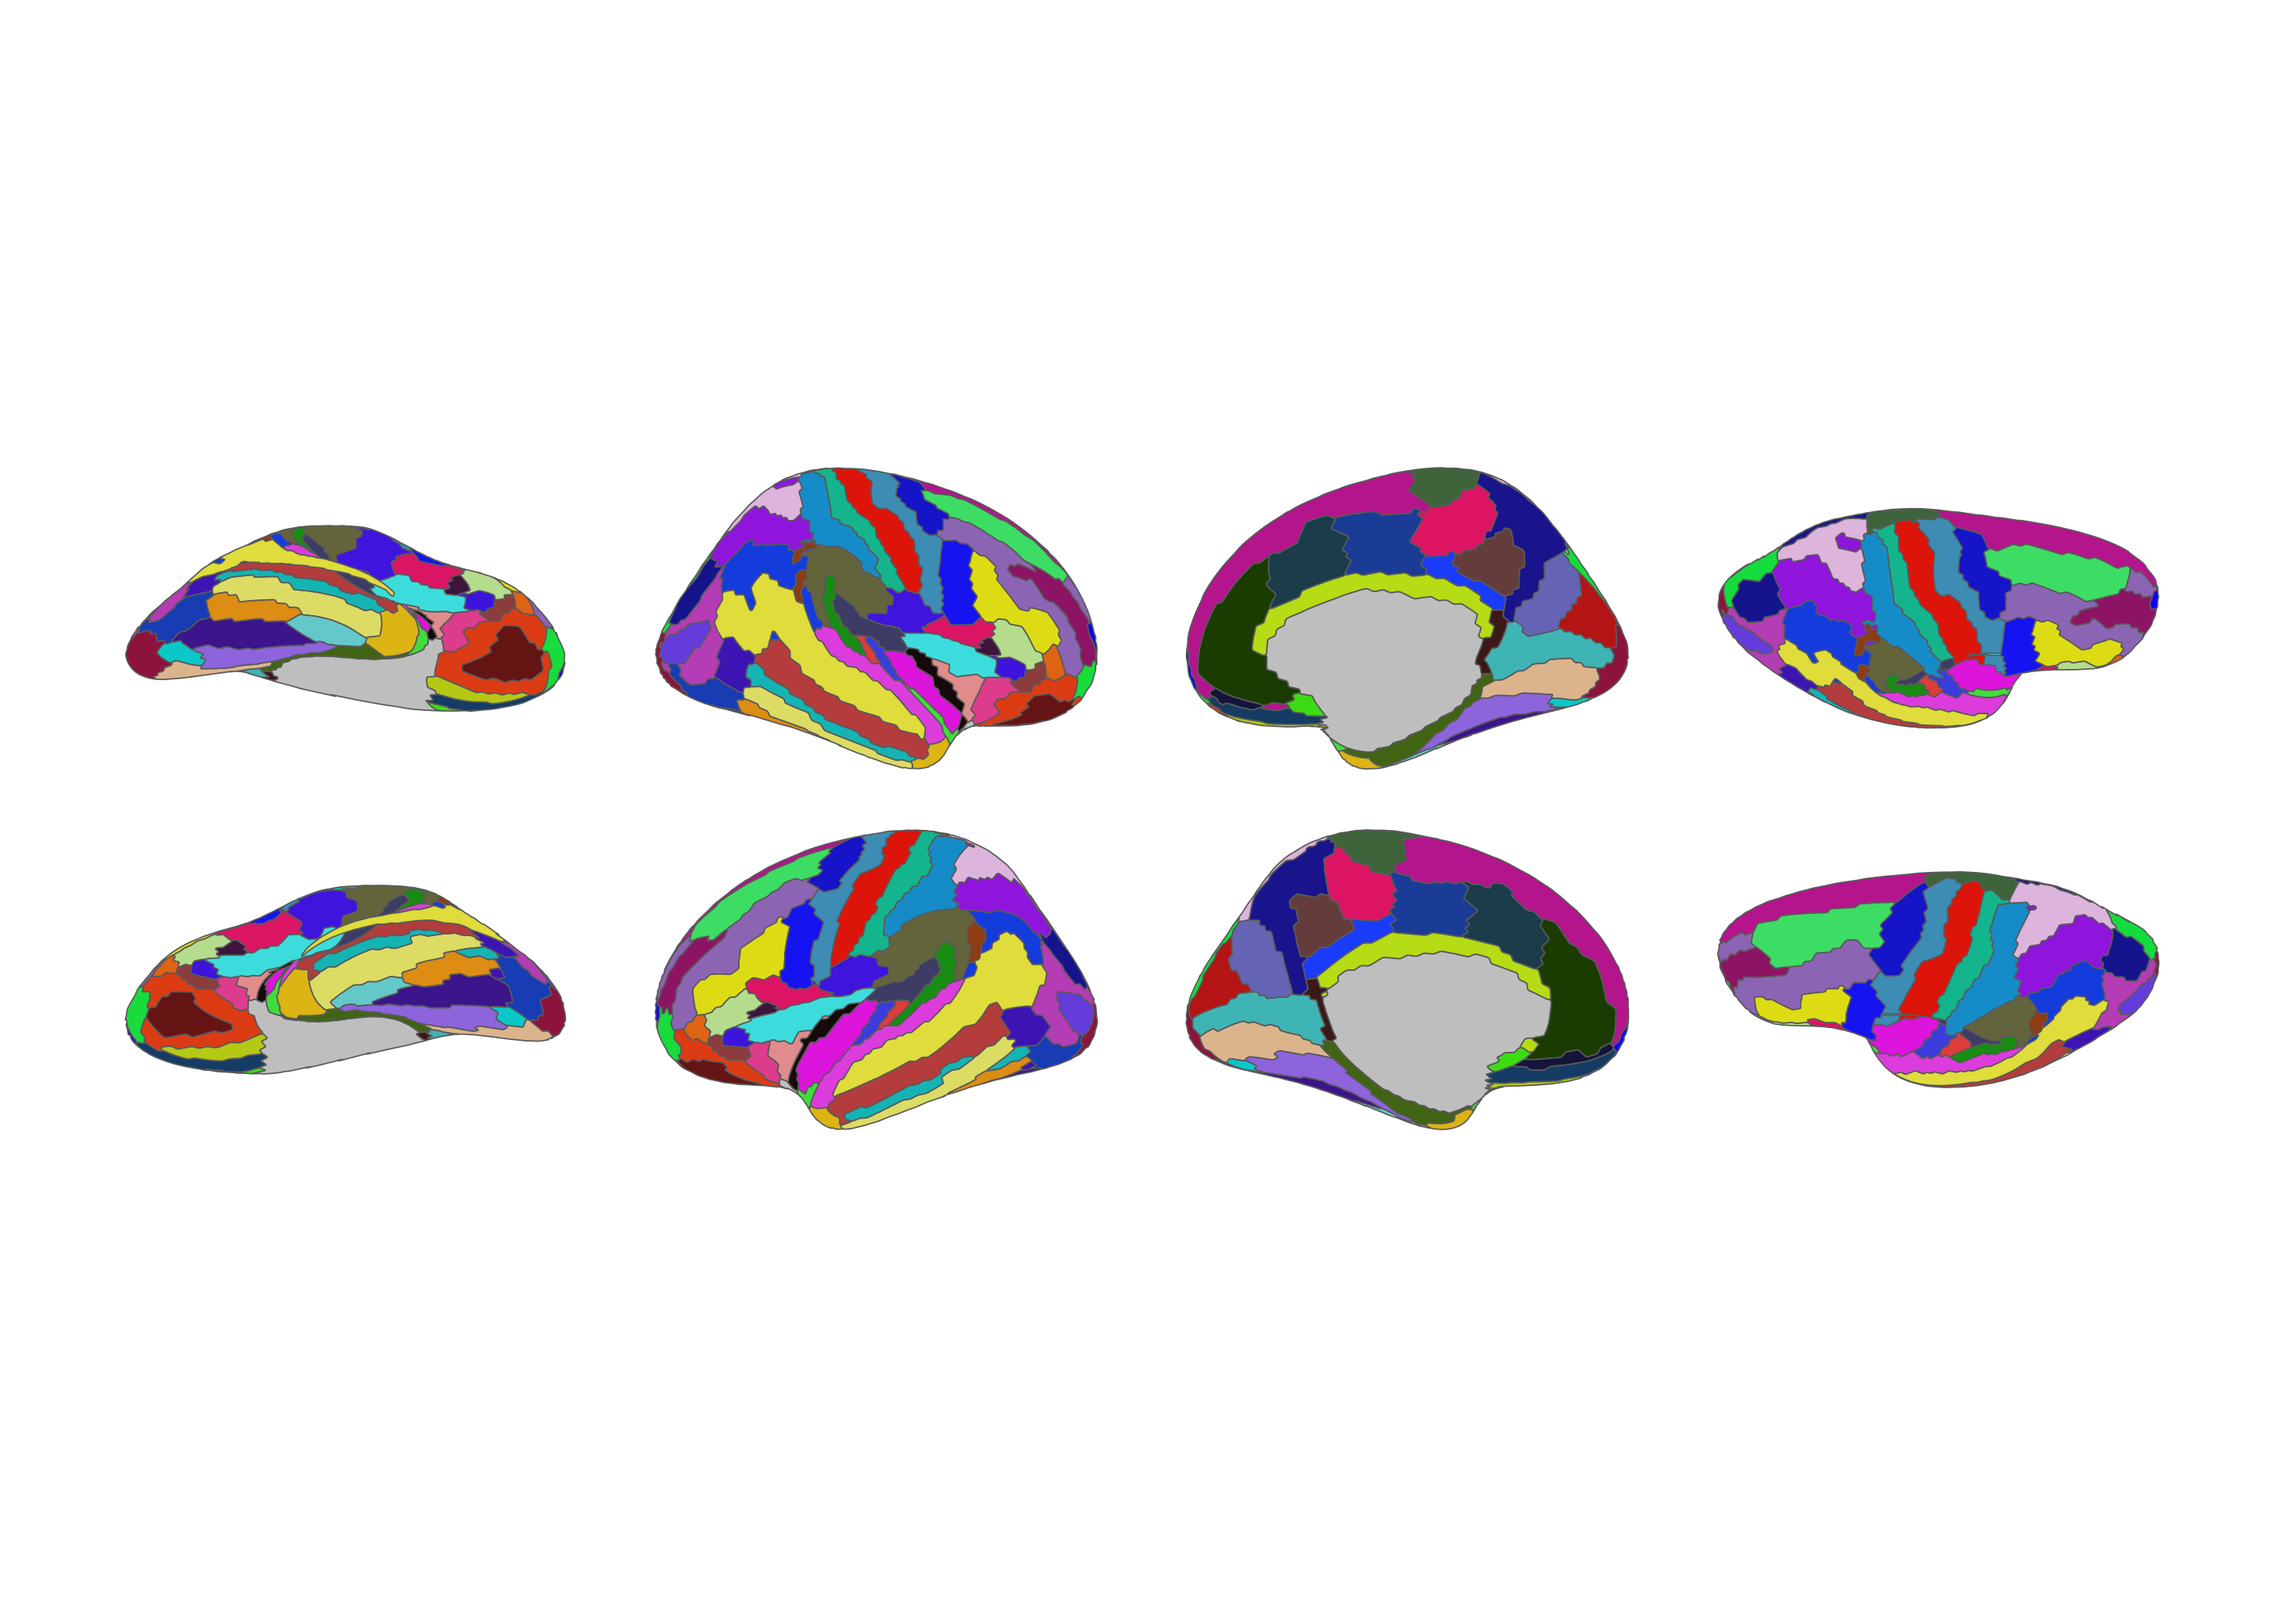
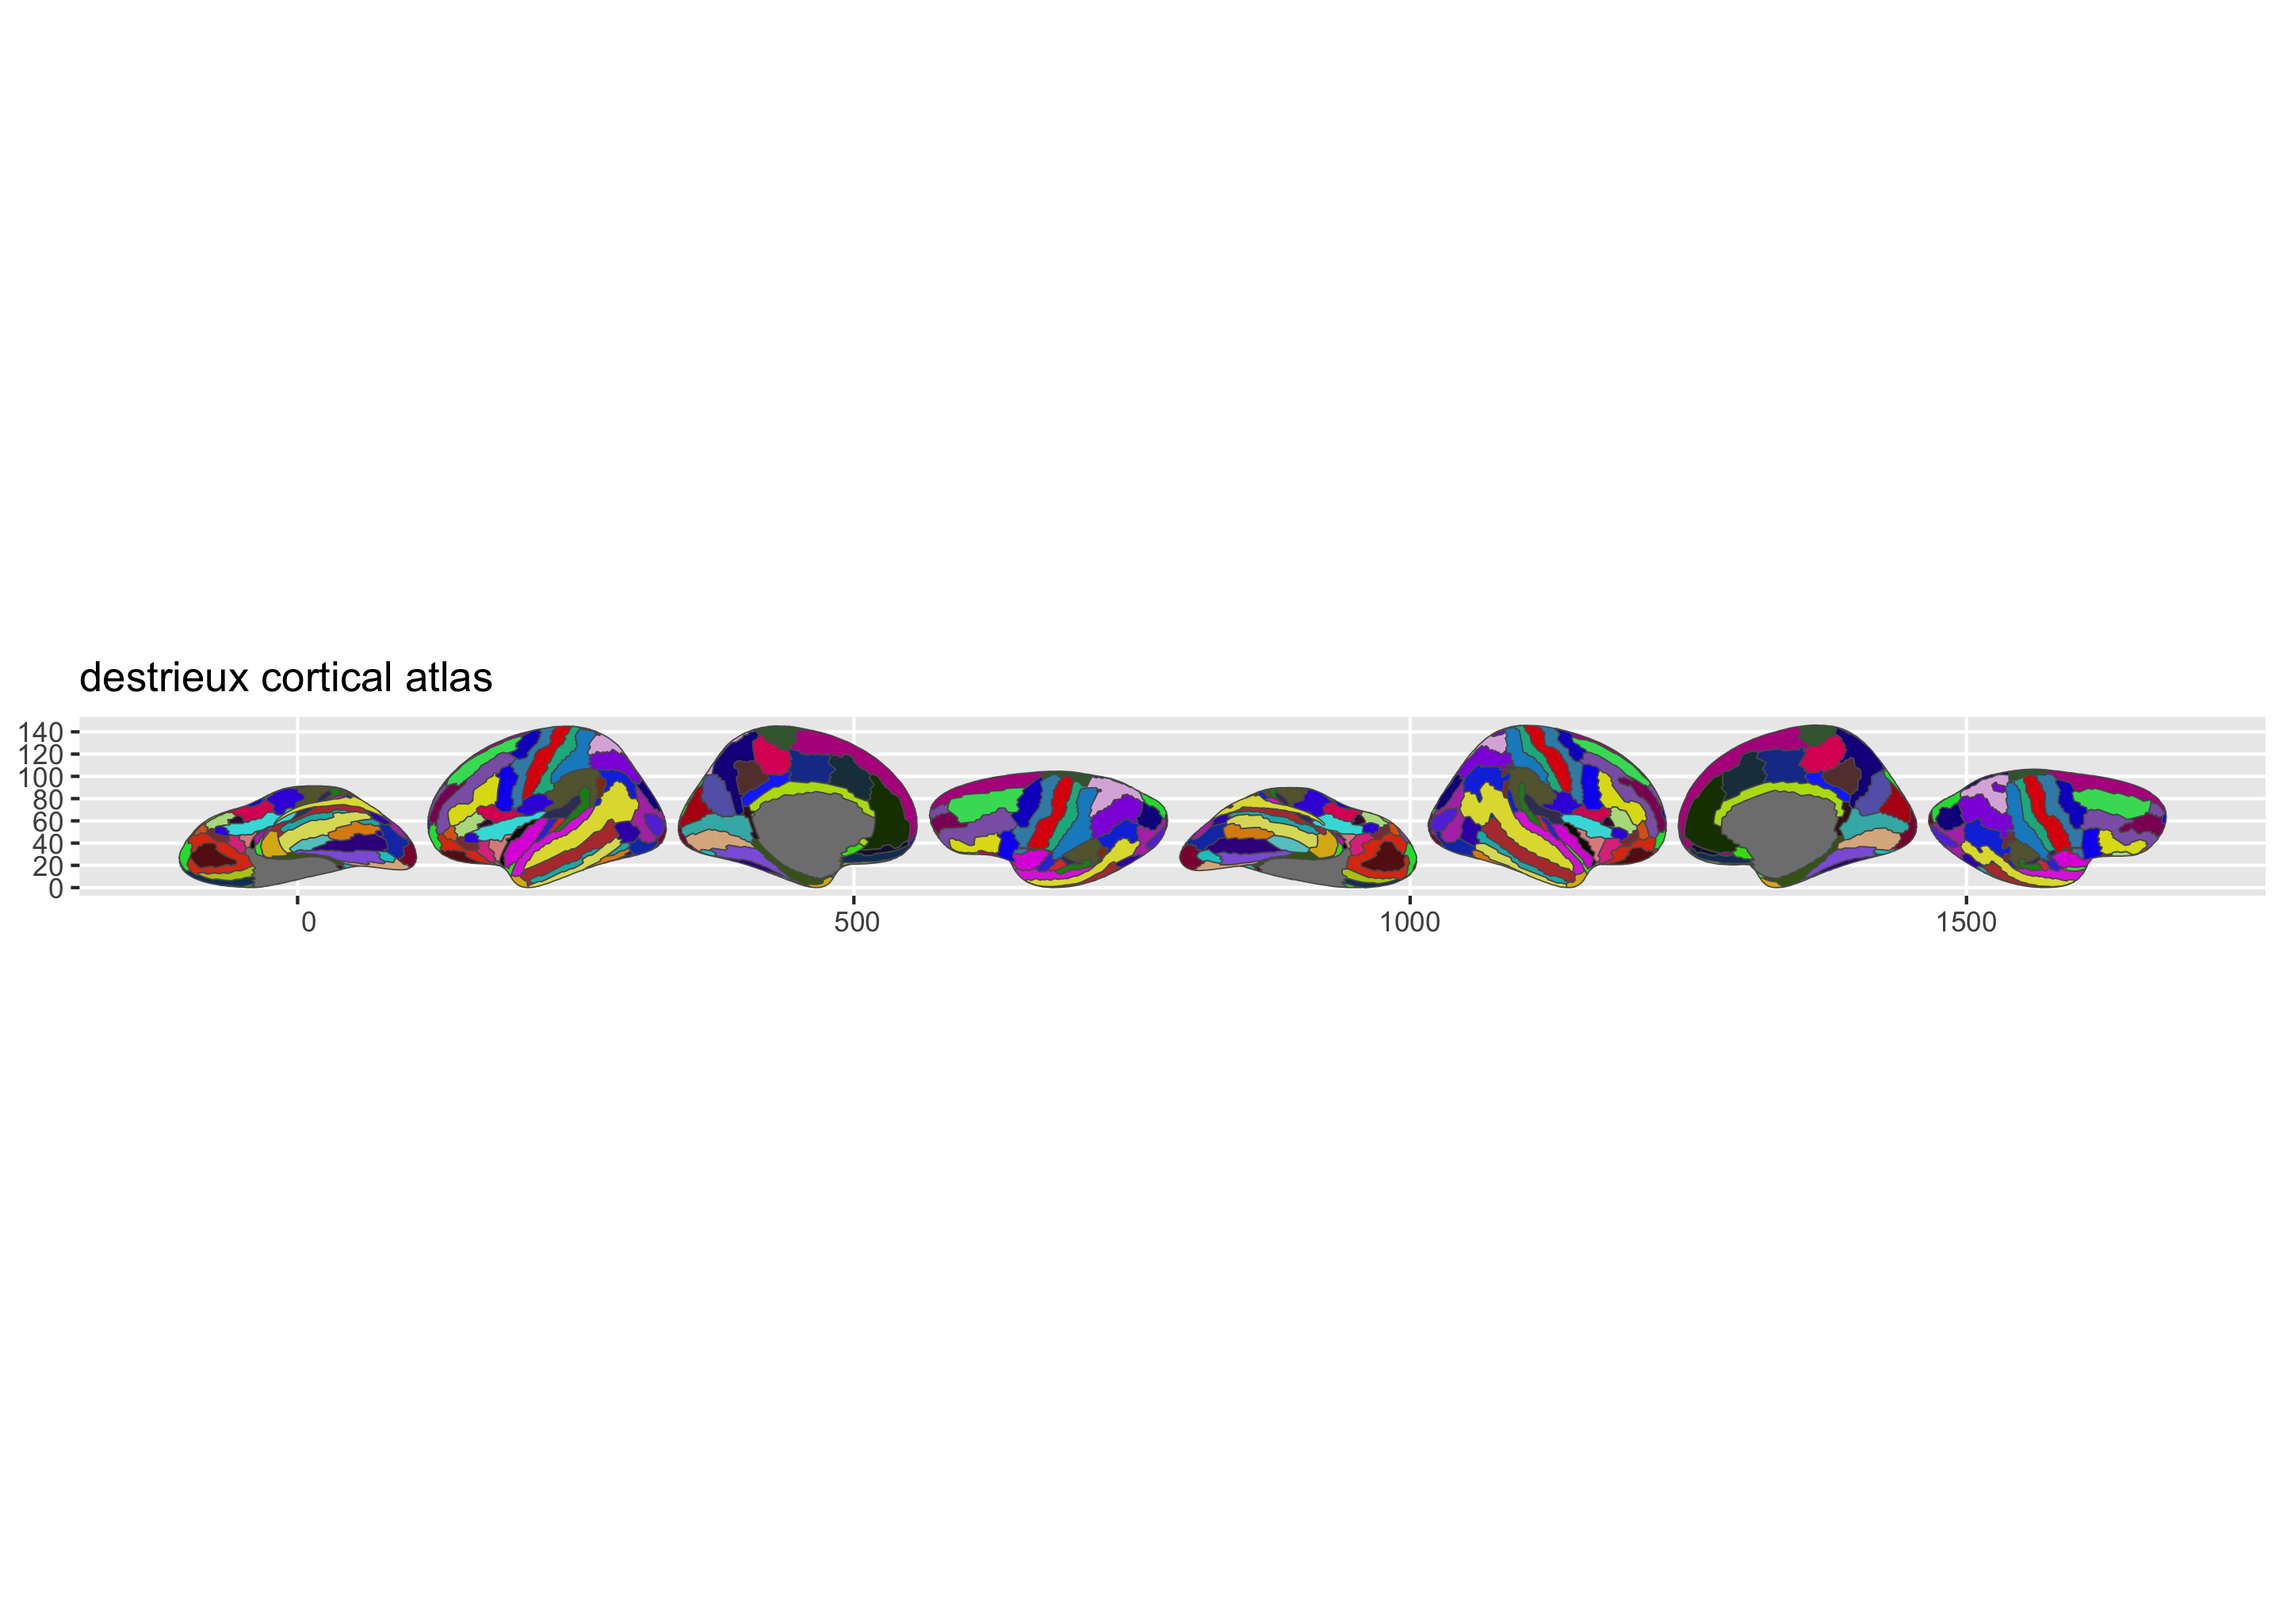
Simplify README plot examples to use plot()
Remove explicit ggplot() + geom_brain(mapping = aes(fill = label)) +
scale_fill_manual() in favour of plot(), which handles colours by default.

Changed region(s): [[0.0, 0.2812, 1.0, 0.7188]]

diff --git a/README.md b/README.md
@@ -39,17 +39,8 @@ pak::pak("ggsegverse/ggsegFreeSurfer")
 ``` r
 library(ggseg)
 library(ggsegFreeSurfer)
-library(ggplot2)
 
-ggplot() +
-  geom_brain(
-    atlas = dkt(),
-    mapping = aes(fill = label),
-    position = position_brain(hemi ~ view),
-    show.legend = FALSE
-  ) +
-  scale_fill_manual(values = dkt()$palette, na.value = "grey") +
-  theme_void()
+plot(dkt())
 ```
 
 <img src="man/figures/README-dkt-1.png" style="width:100.0%" />
@@ -57,15 +48,7 @@ ggplot() +
 ## Destrieux atlas
 
 ``` r
-ggplot() +
-  geom_brain(
-    atlas = destrieux(),
-    mapping = aes(fill = label),
-    position = position_brain(hemi ~ view),
-    show.legend = FALSE
-  ) +
-  scale_fill_manual(values = destrieux()$palette, na.value = "grey") +
-  theme_void()
+plot(destrieux())
 ```
 
 <img src="man/figures/README-destrieux-1.png" style="width:100.0%" />
